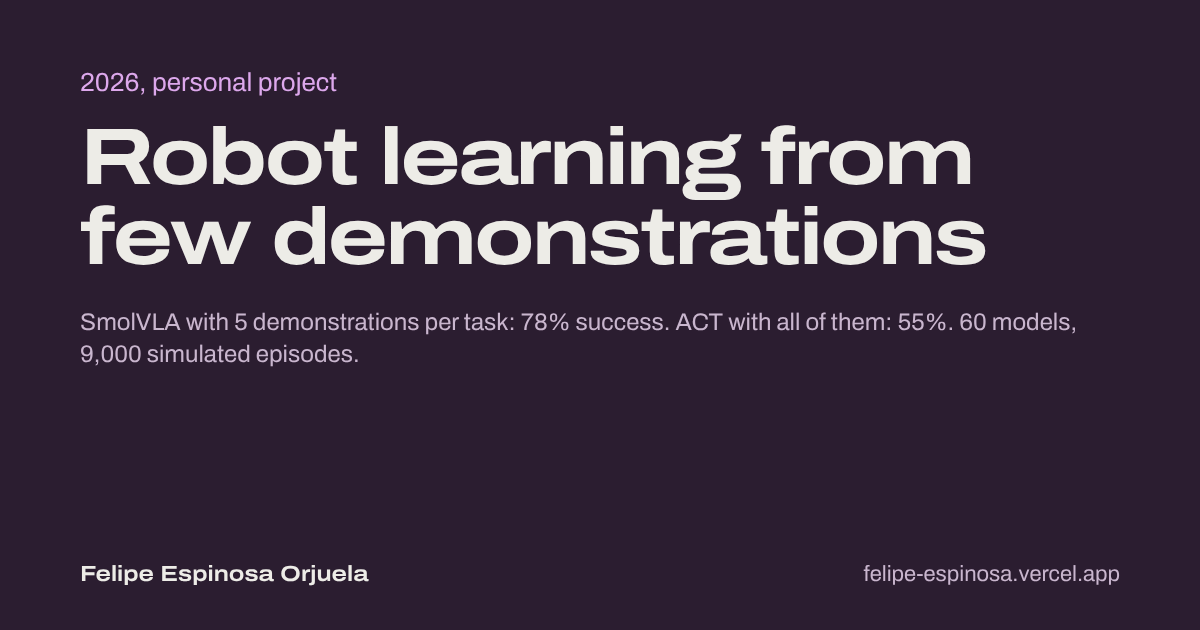
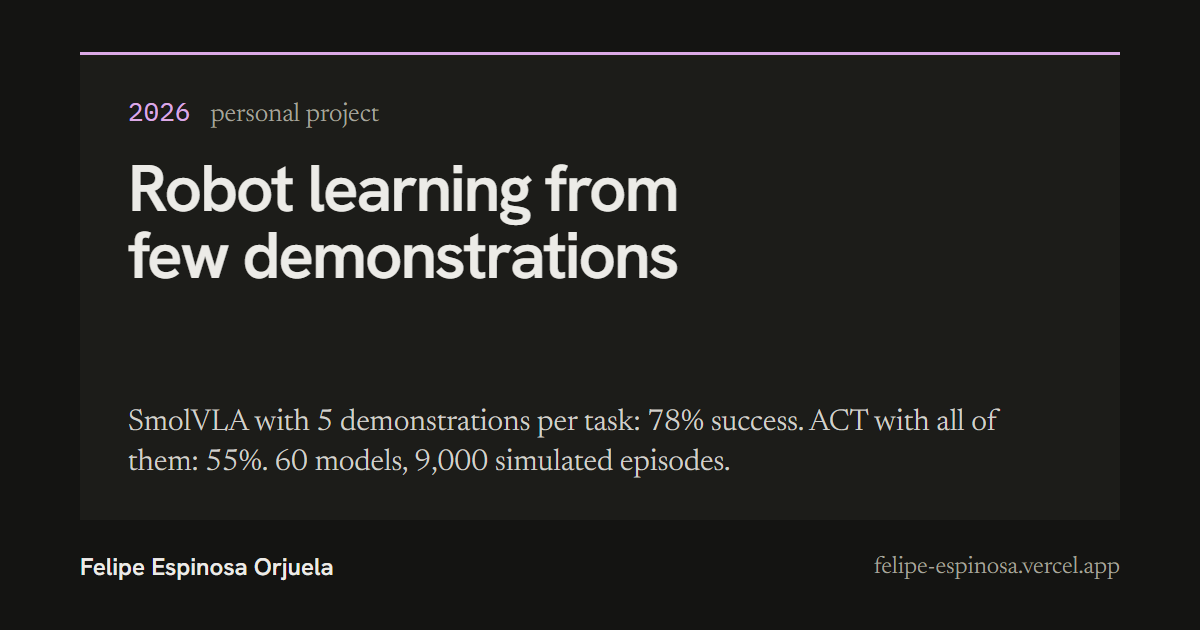
Link previews in the new design

diff --git a/CLAUDE.md b/CLAUDE.md
@@ -7,8 +7,8 @@ Owner: Felipe Espinosa Orjuela. The fuller private record lives in the claude.ai
 
 *Last updated 29 Oct 2026.*
 
-- **29 Oct: branch `visual-2026-10` (pushed, not merged; waiting for Felipe's OK).** Full visual redesign with the Hallmark skill, copy verbatim. The locked system is `design.md` at the repo root; read it before any visual change. Summary in "Visual identity" below. Felipe chose the palette (warm graphite with project colours as marks) and the reverse-chronological work order. One wording change, approved as part of the redesign: the colophon now names the new faces.
-  - Not done yet: the link-preview images (`og*.png`) still use Archivo on the old coloured surfaces; regenerate them in the new type after merge if Felipe wants them to match. The favicon is unchanged.
+- **29 Oct: branch `visual-2026-10` merged to `main` (live), approved by Felipe.** Full visual redesign with the Hallmark skill, copy verbatim. The locked system is `design.md` at the repo root; read it before any visual change. Summary in "Visual identity" below. Felipe chose the palette (warm graphite with project colours as marks) and the reverse-chronological work order. One wording change, approved as part of the redesign: the colophon now names the new faces.
+  - Link previews (`og*.png`) regenerated on 29 Oct in the new design (dark theme, project-colour rule, Hanken Grotesk, Newsreader, Plex Mono), same wording as before. The favicon is unchanged.
   - Hallmark's working files (`.hallmark/`, `site/**/.hallmark/`) and `.claude/launch.json` are excluded in `.git/info/exclude`; never commit them.
 
 - **28 Oct, 22:45: `content-2026-10` merged to `main` (live), approved by Felipe.** Three content commits:
@@ -33,7 +33,7 @@ Owner: Felipe Espinosa Orjuela. The fuller private record lives in the claude.ai
   - Newsreader, normal and italic WOFF subsets (fontTools, from google/fonts), for body text;
   - IBM Plex Mono 400 and 500 WOFF2 (Fontsource 5.1.0), for figures only: scores, dates, costs, table numbers.
 - Spectrograms: `site/assets/spec/spec-<clip>.webp` are white alpha masks, regenerated with `python tools/make_spectrograms.py site/assets/audio/*.mp3`. CSS colours them (`.spec` uses `mask: var(--m)`) and the playhead is the CSS variable `--p`, set by `site.js` on `timeupdate`.
-- Link previews: `site/og.png` (home), plus `og-walloon.png`, `og-cfm.png`, `og-askdata.png` and `og-robot-learning.png` (1200×630, Archivo on the project's dark surface colour; rendered with Playwright from a temporary HTML page).
+- Link previews: `site/og.png` (home), plus `og-walloon.png`, `og-cfm.png`, `og-askdata.png` and `og-robot-learning.png` (1200×630, in the site's dark theme: a sheet with the project's colour rule, Hanken Grotesk title, Newsreader result line; rendered with headless Chrome from a temporary page served from `site/`, then deleted).
 - Local preview: `python3 -m http.server -d site 8765`. That server has no clean URLs, so `/cfm` becomes `/cfm/`.
 - Test with Playwright before every push:
   - viewports 390, 768 and 1440 px, in both dark and light;
@@ -111,7 +111,7 @@ Owner: Felipe Espinosa Orjuela. The fuller private record lives in the claude.ai
 
 ## Next
 
-1. **Merge `visual-2026-10`** after Felipe's OK; then decide whether to regenerate the `og*.png` link previews in the new type.
+1. **After the og merge:** LinkedIn Post Inspector on `/`, `/askdata`, `/robot-learning` so the previews refresh.
 2. **CLSE paper:** when it's accepted, link it and update "Under review".
 3. Possibly a short "Writing" or "Notes" section later, but only if there are real posts.
 4. After each content change, check link previews with LinkedIn Post Inspector.
